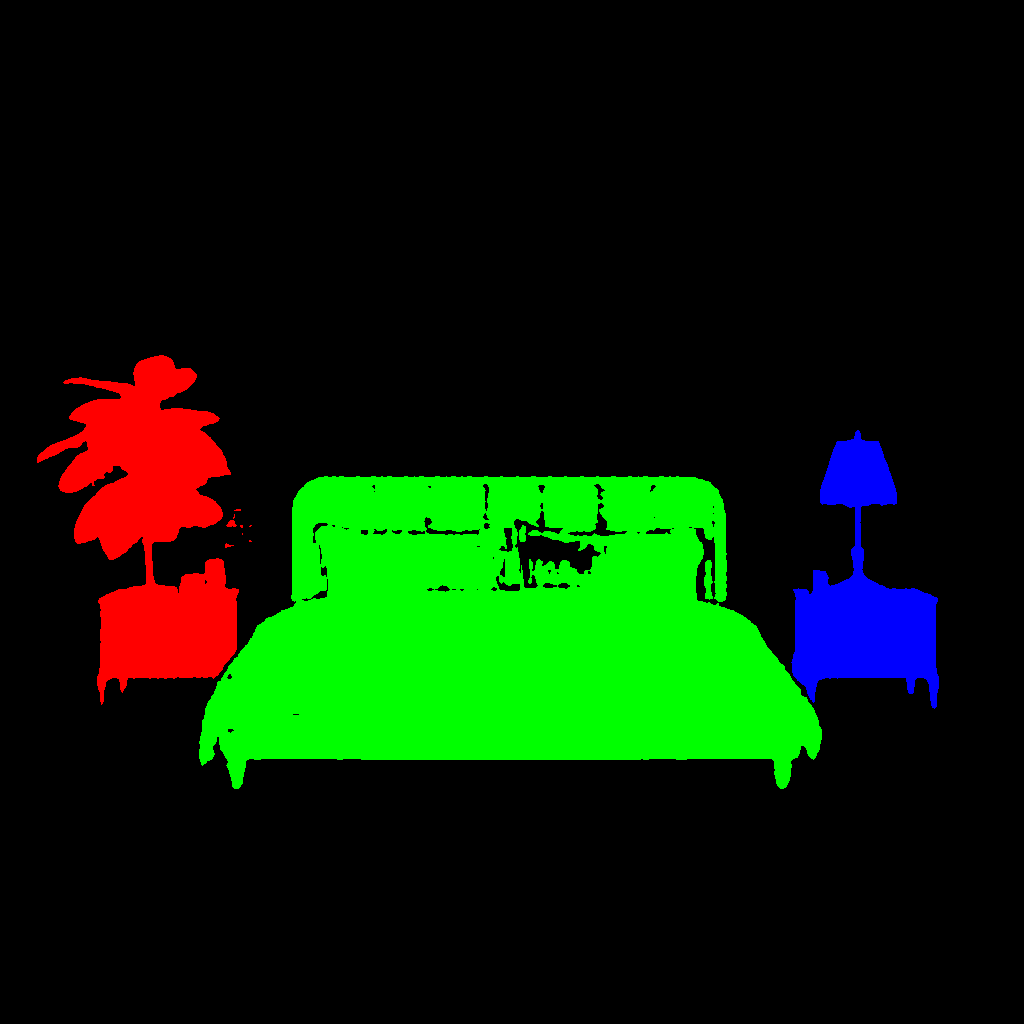
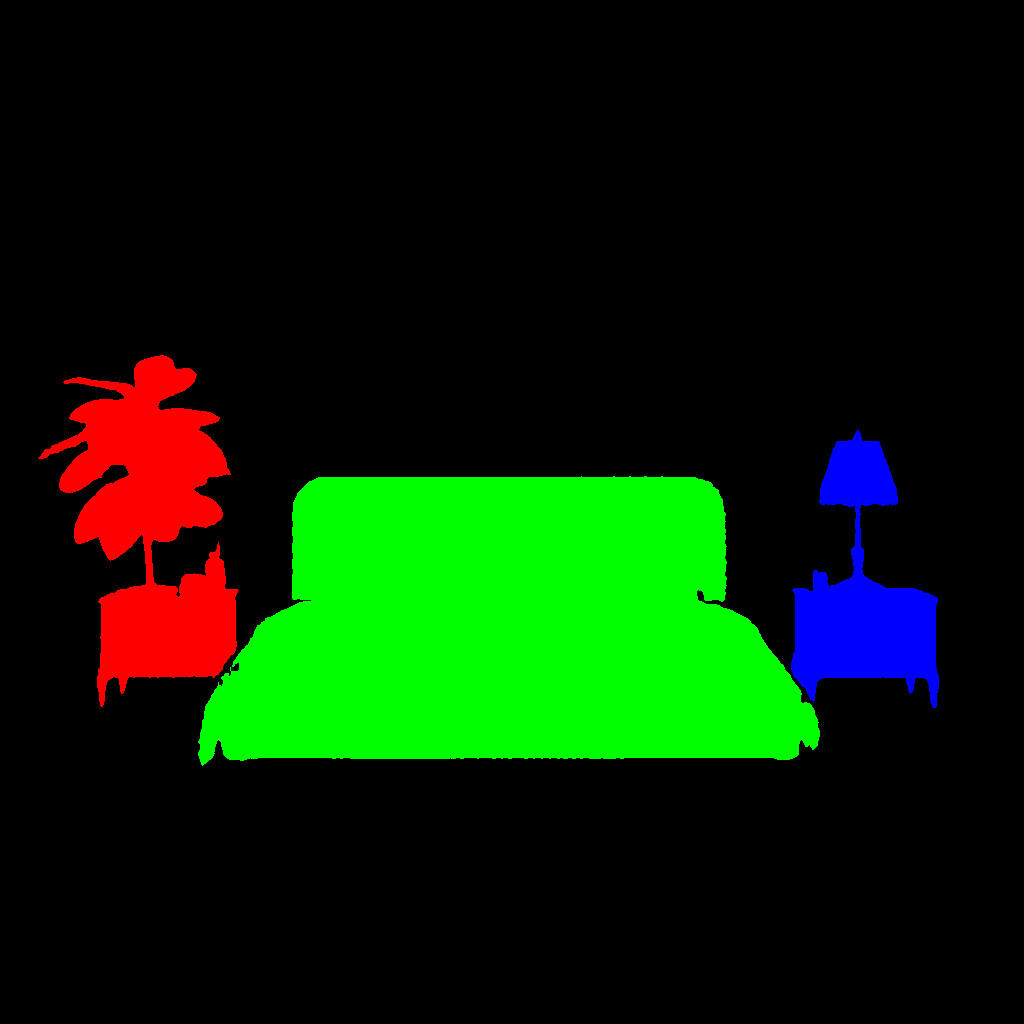
update test data

diff --git a/gradio_demo.py b/gradio_demo.py
@@ -235,9 +235,7 @@ with gr.Blocks() as demo:
                 )
 
             with gr.Accordion("Segmentation Settings", open=False):
-                polygon_refinement = gr.Checkbox(
-                    label="Polygon Refinement", value=False
-                )
+                polygon_refinement = gr.Checkbox(label="Polygon Refinement", value=True)
             seg_button = gr.Button("Run Segmentation")
 
             with gr.Accordion("Generation Settings", open=False):
